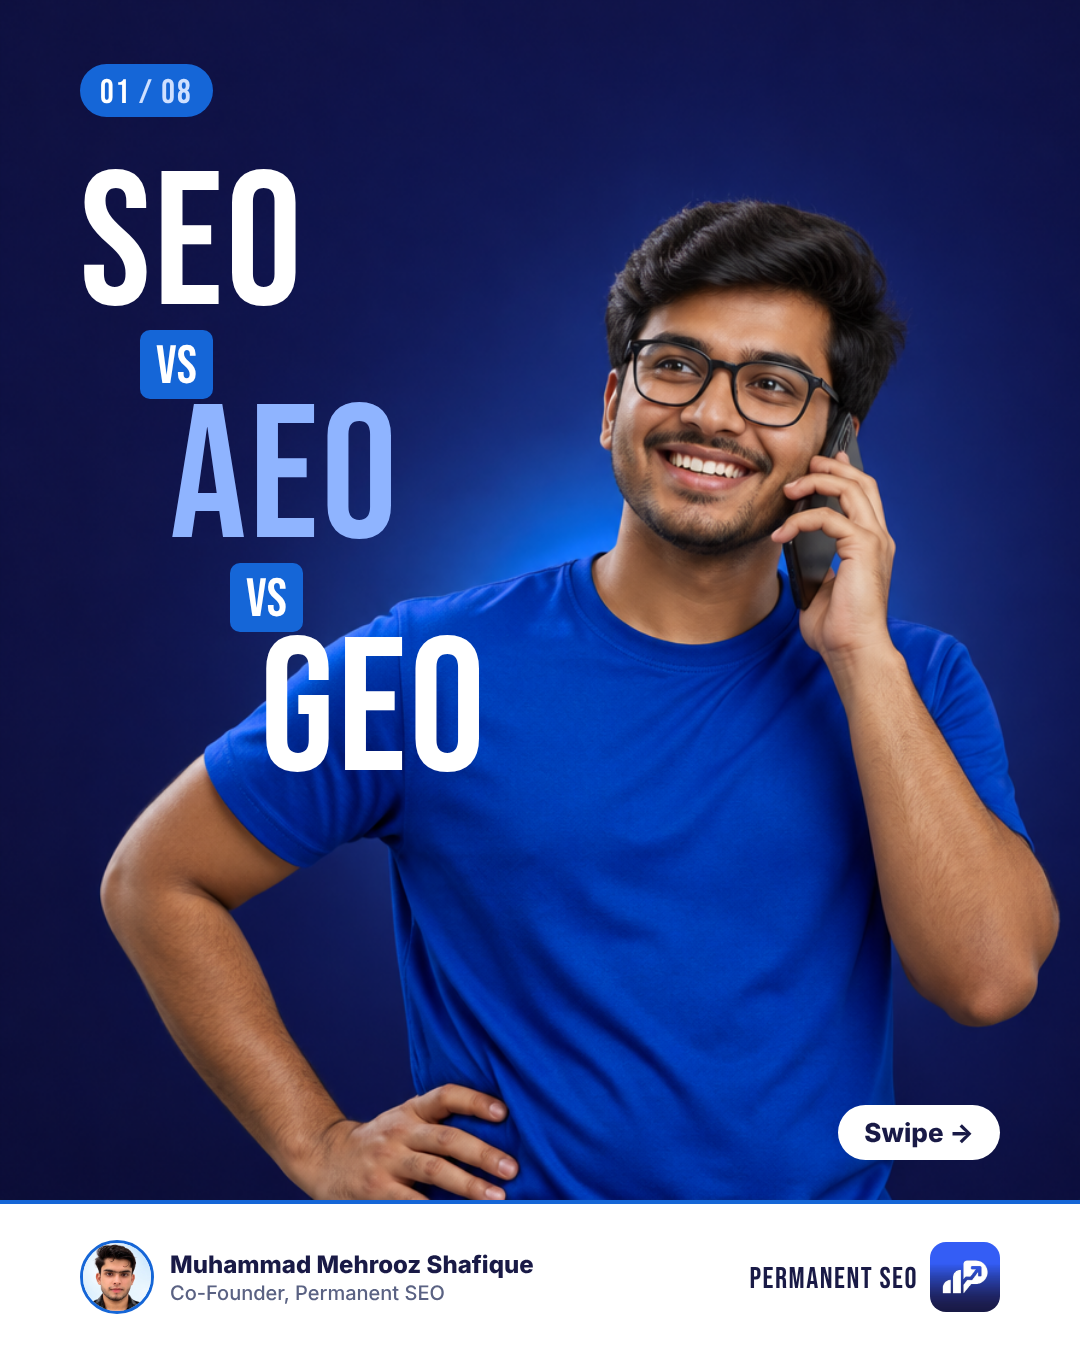
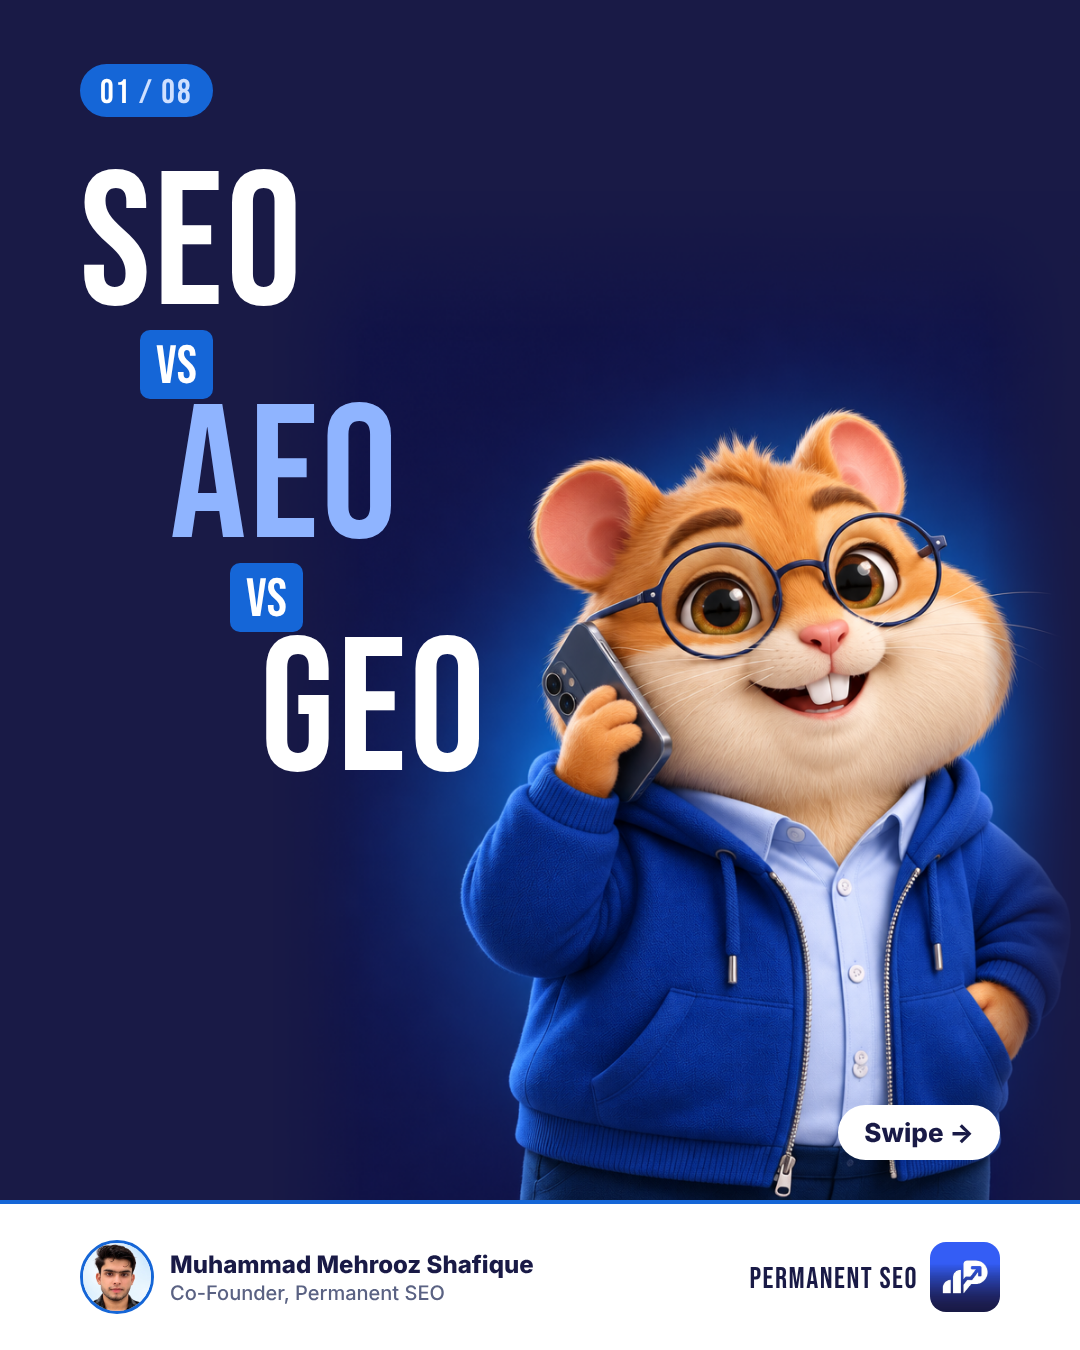
SEO vs AEO vs GEO: use approved hamster mascot; document mascot
Claude-Session: https://claude.ai/code/session_013VGBHs3NgpUR7t18D8y6x1

diff --git a/brand/mascot/README.md b/brand/mascot/README.md
@@ -1,0 +1,10 @@
+# Permanent SEO mascot
+
+Approved master design: `hamster-master.png`.
+
+Use this exact hamster in every mascot design: golden-honey and cream fur, big hazel eyes,
+thin round navy glasses, royal blue zip hoodie over a light blue shirt, navy trousers, white sneakers.
+
+Generate new scenes on Higgsfield (`gpt_image_2_6`) with the master as an image reference:
+`medias: [{ value: "c13086d9-1ed9-41e7-af73-ee3f7afa89e9", role: "image_references" }]`
+and start the prompt with "Use the EXACT same 3D hamster mascot from the reference image".
